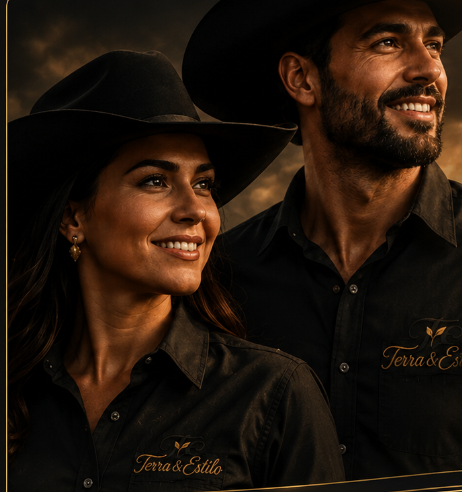
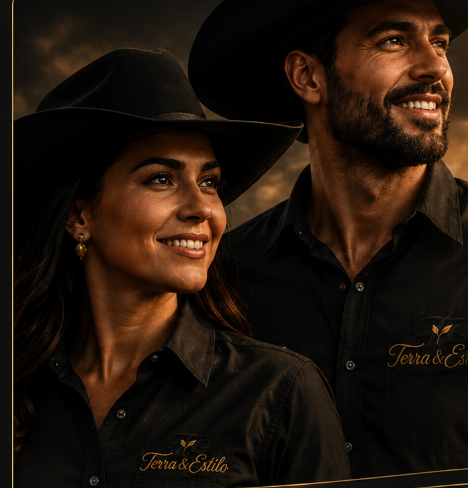
Ajuste

diff --git a/src/home.css b/src/home.css
@@ -2456,7 +2456,7 @@ body.nav-drawer-open {
   display: grid;
   grid-template-columns: 52% 48%;
   align-items: stretch;
-  min-height: 420px;
+  min-height: 500px;
   max-height: none;
   overflow: hidden;
   border: none;
@@ -2467,7 +2467,7 @@ body.nav-drawer-open {
 }
 
 .featured-collection--campaign {
-  min-height: 420px;
+  min-height: 500px;
   padding-bottom: 0;
 }
 
@@ -2475,7 +2475,7 @@ body.nav-drawer-open {
   position: relative;
   z-index: 1;
   display: block;
-  min-height: 420px;
+  min-height: 500px;
   height: 100%;
   padding: 0;
   overflow: hidden;
@@ -2492,11 +2492,11 @@ body.nav-drawer-open {
   max-height: none;
   margin: 0;
   object-fit: cover;
-  /* Cast from folder mockup — woman/hat left, upper body; soft right edge for ivory fade */
-  object-position: 26% 8%;
+  /* Cast framing — woman left with chest logo, man readable; soft right edge for ivory fade */
+  object-position: 28% 46%;
   filter: brightness(1.03) contrast(1.02) saturate(0.98);
-  transform: scale(1.02);
-  transform-origin: 22% 12%;
+  transform: none;
+  transform-origin: 28% 42%;
   -webkit-mask-image: none;
   mask-image: none;
   mix-blend-mode: normal;
@@ -2739,8 +2739,8 @@ body.nav-drawer-open {
   .featured-collection__media {
     order: 1;
     width: 100%;
-    min-height: 360px;
-    height: min(48vh, 420px);
+    min-height: 380px;
+    height: min(52vh, 460px);
   }
 
   .featured-collection__media-img {
@@ -2750,9 +2750,9 @@ body.nav-drawer-open {
     height: 100%;
     max-height: none;
     object-fit: cover;
-    object-position: 30% 10%;
-    transform: scale(1.02);
-    transform-origin: 26% 14%;
+    object-position: 30% 42%;
+    transform: none;
+    transform-origin: 28% 40%;
     filter: brightness(1.03) contrast(1.02) saturate(0.98);
     -webkit-mask-image: none;
     mask-image: none;

diff --git a/src/data/homeData.js b/src/data/homeData.js
@@ -175,11 +175,11 @@ export const featuredCollection = {
   description:
     'Uma seleção premium de peças com tons naturais, cortes atemporais e acabamento refinado, inspirada na elegância e autenticidade do Sul do Brasil.',
   primaryCta: 'Comprar coleção',
-  // Cast-only crop from folder mockup — logo seal + ivory copy come from HTML.
+  // Cast crop with chest brand mark — logo seal + ivory copy come from HTML.
   image: raizHeroAsset,
   imageAlt:
     'Casal com chapéus na campanha Coleção Raízes do Sul — Terra & Estilo.',
-  objectPosition: '26% 8%',
+  objectPosition: '28% 46%',
   marble: BRAND_MARBLE_SRC,
   logo: BRAND_LOGO_CIRCULAR_SRC,
   variant: 'banner',

diff --git a/src/preview.css b/src/preview.css
@@ -947,8 +947,8 @@
 }
 
 .mobile-preview .featured-collection__media {
-  min-height: 300px;
-  height: min(46vh, 380px);
+  min-height: 320px;
+  height: min(52vh, 440px);
   padding: 0;
 }
 
@@ -957,10 +957,10 @@
   height: 100%;
   max-height: none;
   object-fit: cover;
-  object-position: 30% 10%;
+  object-position: 30% 42%;
   filter: brightness(1.03) contrast(1.02) saturate(0.98);
-  transform: scale(1.02);
-  transform-origin: 26% 14%;
+  transform: none;
+  transform-origin: 28% 40%;
 }
 
 .mobile-preview .featured-collection__logo {
